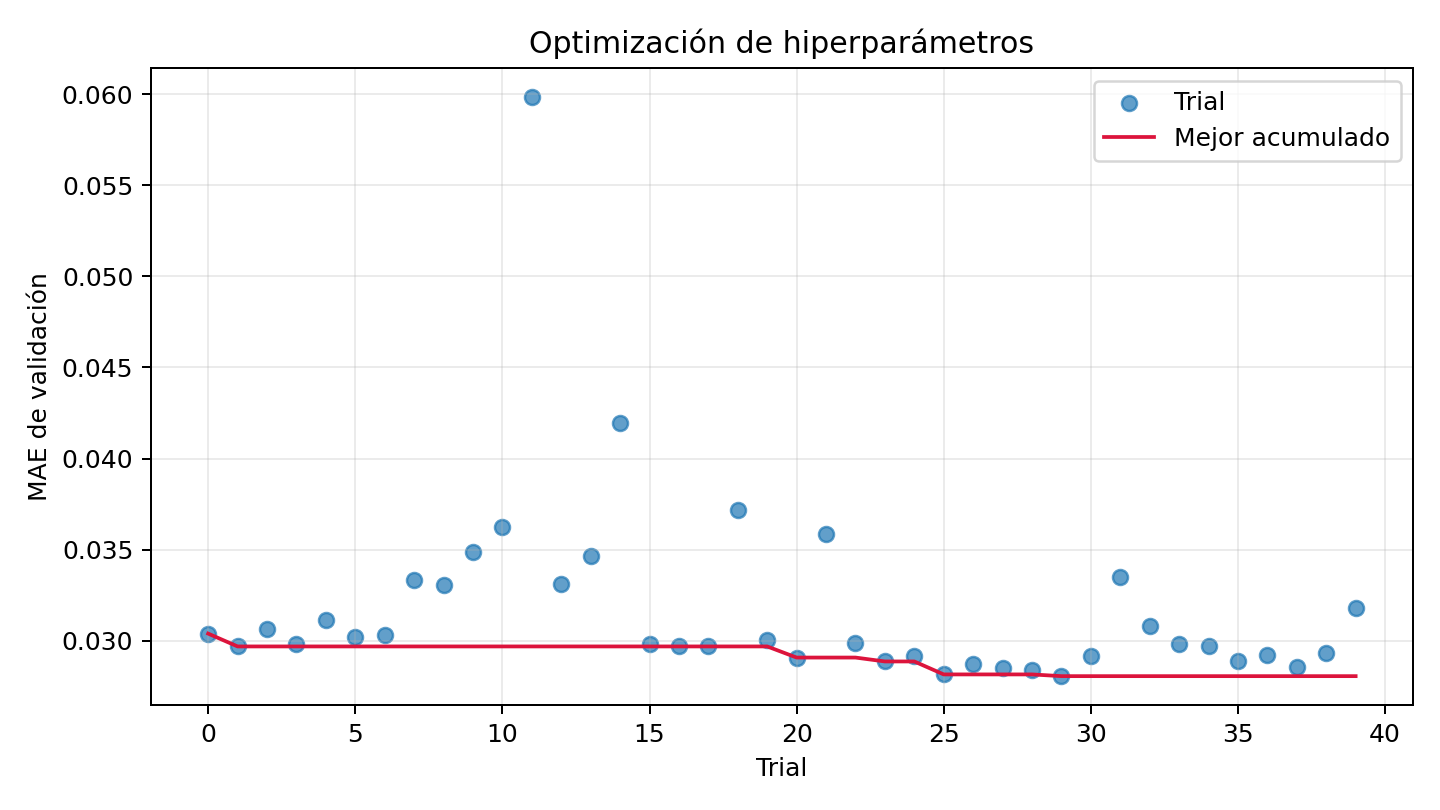
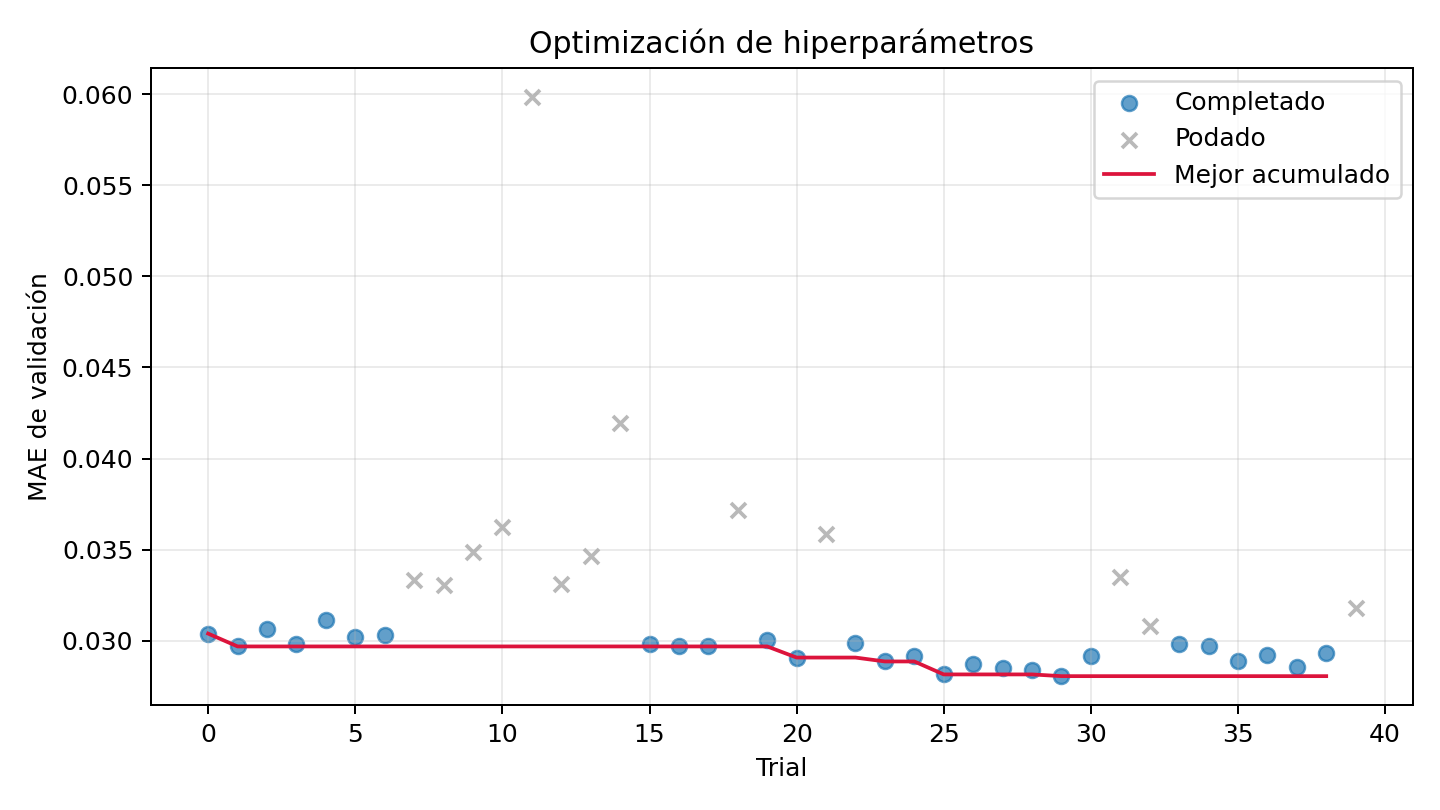
Completa auditoría y documentación de resultados

diff --git a/README.md b/README.md
@@ -28,8 +28,9 @@ Estado al 2 de julio de 2026:
 | Optuna sobre MST-96 | Completa | 40 trials; trial 29 ganador |
 | Entrenamiento final | Completa | MAE global 14.52; MAE a 60 min 15.63 |
 
-El modelo final fue seleccionado exclusivamente con validation y test se evaluó una sola vez al
-terminar. Los resultados finales y su comparación referencial están documentados más abajo.
+El modelo final fue seleccionado exclusivamente con validation; test nunca intervino en la elección
+de arquitectura, hiperparámetros o época. La ejecución auditada reprodujo exactamente el checkpoint,
+las predicciones y las métricas de la primera ejecución final.
 
 ## Visión de alto nivel
 
@@ -342,6 +343,9 @@ no como un óptimo universal.
 
 ![Historia de Optuna](resultados_modular/optuna_plots/optuna_history.png)
 
+Los círculos muestran trials completados y las cruces, trials podados; la línea roja conserva el
+mejor MAE de validation encontrado hasta cada trial completado.
+
 ![Importancia de hiperparámetros](resultados_modular/optuna_plots/optuna_importance.png)
 
 ## Resultados finales
@@ -377,6 +381,30 @@ resultados_modular/forecasting/propuesta_final_eval/
 | 15 min | 13.95 | 22.04 | 9.30 % |
 | 30 min | 14.58 | 23.52 | 9.91 % |
 | 60 min | 15.63 | 25.30 | 11.91 % |
+
+<details>
+<summary>Métricas completas de los 12 horizontes</summary>
+
+| Horizonte | MAE | RMSE | MAPE |
+|---|---:|---:|---:|
+| 5 min | 13.03 | 20.16 | 8.58 % |
+| 10 min | 13.61 | 21.31 | 9.01 % |
+| 15 min | 13.95 | 22.04 | 9.30 % |
+| 20 min | 14.17 | 22.59 | 9.47 % |
+| 25 min | 14.38 | 23.06 | 9.71 % |
+| 30 min | 14.58 | 23.52 | 9.91 % |
+| 35 min | 14.77 | 23.87 | 10.15 % |
+| 40 min | 14.91 | 24.13 | 10.30 % |
+| 45 min | 14.98 | 24.31 | 10.67 % |
+| 50 min | 15.03 | 24.43 | 10.57 % |
+| 55 min | 15.16 | 24.68 | 10.96 % |
+| 60 min | 15.63 | 25.30 | 11.91 % |
+
+</details>
+
+![Curvas de optimización y generalización](resultados_modular/forecasting/propuesta_final_eval/learning_curve.png)
+
+![Métricas por horizonte](resultados_modular/forecasting/propuesta_final_eval/test_metrics_by_horizon.png)
 
 Comando para extraer únicamente el resumen que debe copiarse a la tabla:
 
@@ -419,6 +447,11 @@ simétricas del mismo checkpoint. En los entrenamientos finales nuevos también 
 separa optimización (`train_loss`) y generalización (`train_eval_loss` frente a `valid_loss`). Esta
 medición adicional no se ejecuta en probes ni en Optuna para no encarecer la búsqueda.
 
+En la época elegida, validation supera a train eval solo en 2.08 %. Después de ese punto, train eval
+continúa bajando lentamente mientras validation se estabiliza; al detenerse en la época 32 la brecha
+sigue siendo pequeña (3.29 %). No se observa una divergencia fuerte compatible con sobreajuste
+severo, aunque sí el inicio esperable de una separación entre ambos conjuntos.
+
 El antiguo `prediction_example.png` seleccionaba deliberadamente, dentro del primer ejemplo, el
 sensor con mayor rango real. Era un caso de estrés y no una muestra representativa. La predicción casi
 plana de ese caso muestra una limitación real: el modelo suaviza cambios bruscos y tiende hacia el
@@ -426,12 +459,41 @@ nivel medio. El código actualizado genera por separado un caso de MAE mediano
 (`prediction_example.png`) y el caso de alta variabilidad (`prediction_high_variability.png`). Las
 conclusiones cuantitativas deben basarse en todo test, no en una única trayectoria.
 
+![Pronóstico representativo](resultados_modular/forecasting/propuesta_final_eval/prediction_example.png)
+
+![Caso de alta variabilidad](resultados_modular/forecasting/propuesta_final_eval/prediction_high_variability.png)
+
+Sobre todos los valores válidos de test, la correlación entre objetivo y predicción es `0.9872`. El
+sesgo medio es `+0.59` unidades; la desviación estándar predicha (`144.76`) es ligeramente menor que
+la real (`146.01`), coherente con el suavizado observado en picos y valles.
+
+### Auditoría de integridad de resultados
+
+La fotografía versionada en `resultados_modular/` fue comprobada después de descargarla mediante Git
+LFS:
+
+| Comprobación | Resultado |
+|---|---|
+| Archivos versionados de resultados | 86 archivos; 78 319 718 bytes |
+| JSON de métricas | 33 válidos |
+| Imágenes PNG | 41 válidas |
+| Estudios SQLite Optuna `v1` y `v2` | `PRAGMA integrity_check = ok` |
+| Tensores finales | `(3566, 12, 170)` para objetivos y predicciones |
+| Valores no finitos | Ninguno |
+| Métricas recalculadas desde `test_predictions.npz` | Coinciden con `metrics.json` (diferencia máxima `3.3e-7`) |
+| Primera ejecución vs. ejecución auditada | Checkpoints y predicciones idénticos por SHA-256 |
+| Estado Git LFS | Sin objetos pendientes |
+
+Los 33 JSON corresponden a dos pretrainings, dos probes, 27 trials completados y dos ejecuciones
+finales. Los 13 trials podados permanecen registrados en la base SQLite y en `optuna_trials.csv`,
+pero no generan un `metrics.json` final.
+
 ## Estructura del repositorio
 
 ```text
 .
 ├── README.md                         # Documento principal del proyecto
-├── run_experiment.py                 # CLI: pretrain, compare, probe, tune y train
+├── run_experiment.py                 # CLI: pretrain, compare, probe, tune, train y plots
 ├── requirements-experiment.txt       # Dependencias salvo PyTorch/CUDA
 ├── dataset/
 │   ├── PEMS08/                       # Datos, escala e índices oficiales
@@ -585,6 +647,9 @@ echo $! > logs/final_eval.pid
 | `optuna_history.png` | Evolución del mejor MAE acumulado |
 | `optuna_importance.png` | Importancia fANOVA de hiperparámetros |
 | `propuesta_final_eval/metrics.json` | Train eval, validation final y métricas de test desnormalizadas |
+| `propuesta_final_eval/learning_curve.png` | Optimización online y generalización train/validation |
+| `propuesta_final_eval/test_metrics_by_horizon.png` | MAE, RMSE y MAPE para los 12 horizontes |
+| `propuesta_final_eval/prediction_*.png` | Caso representativo y caso de alta variabilidad |
 | `propuesta_final_eval/test_predictions.npz` | Predicciones y objetivos para análisis posteriores |
 
 Los artefactos están ignorados por defecto para evitar que ejecuciones sucesivas inflen el historial.